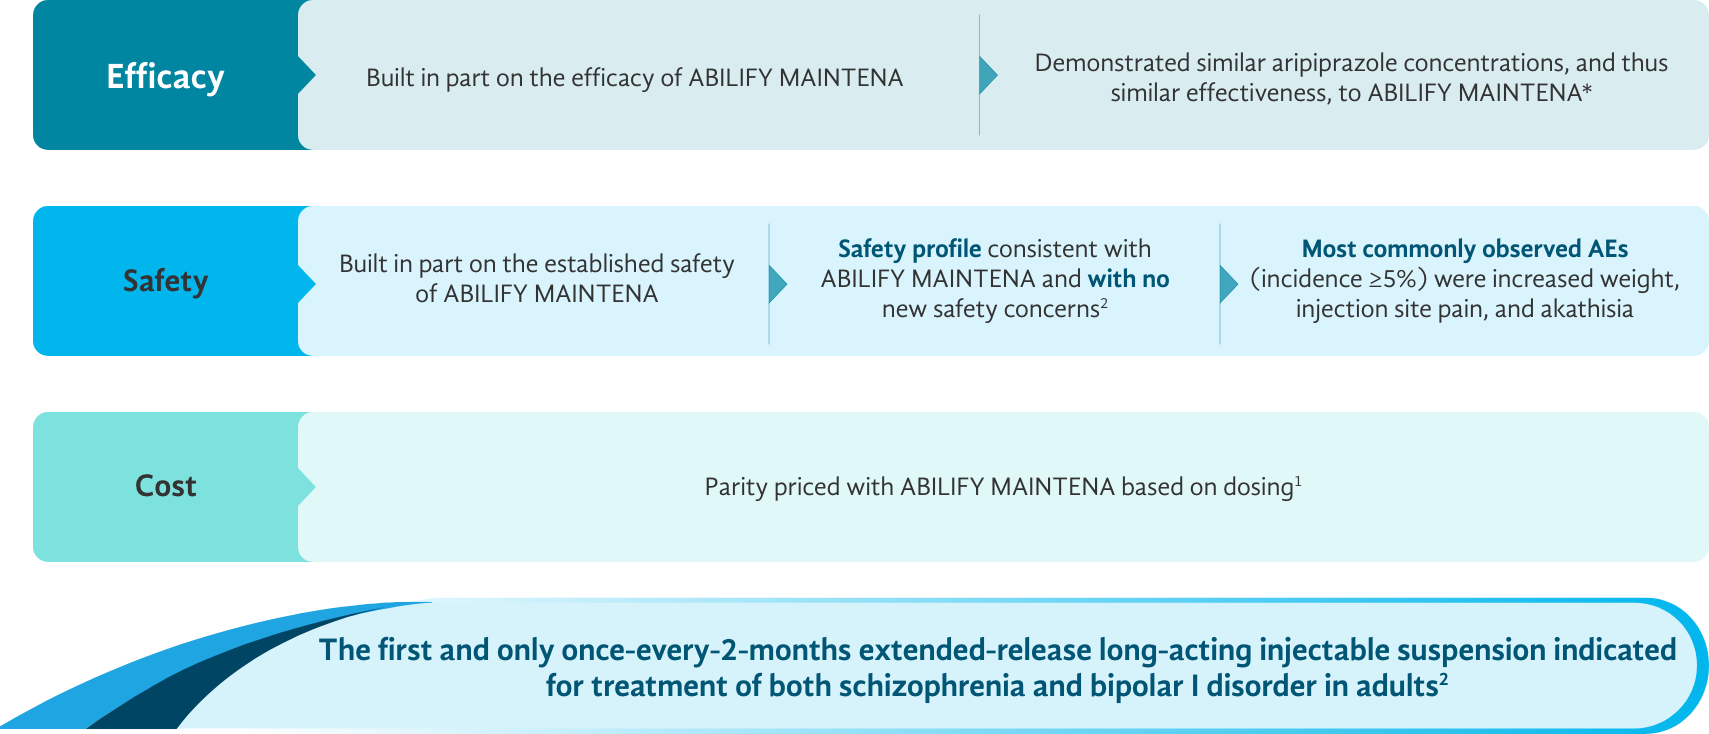
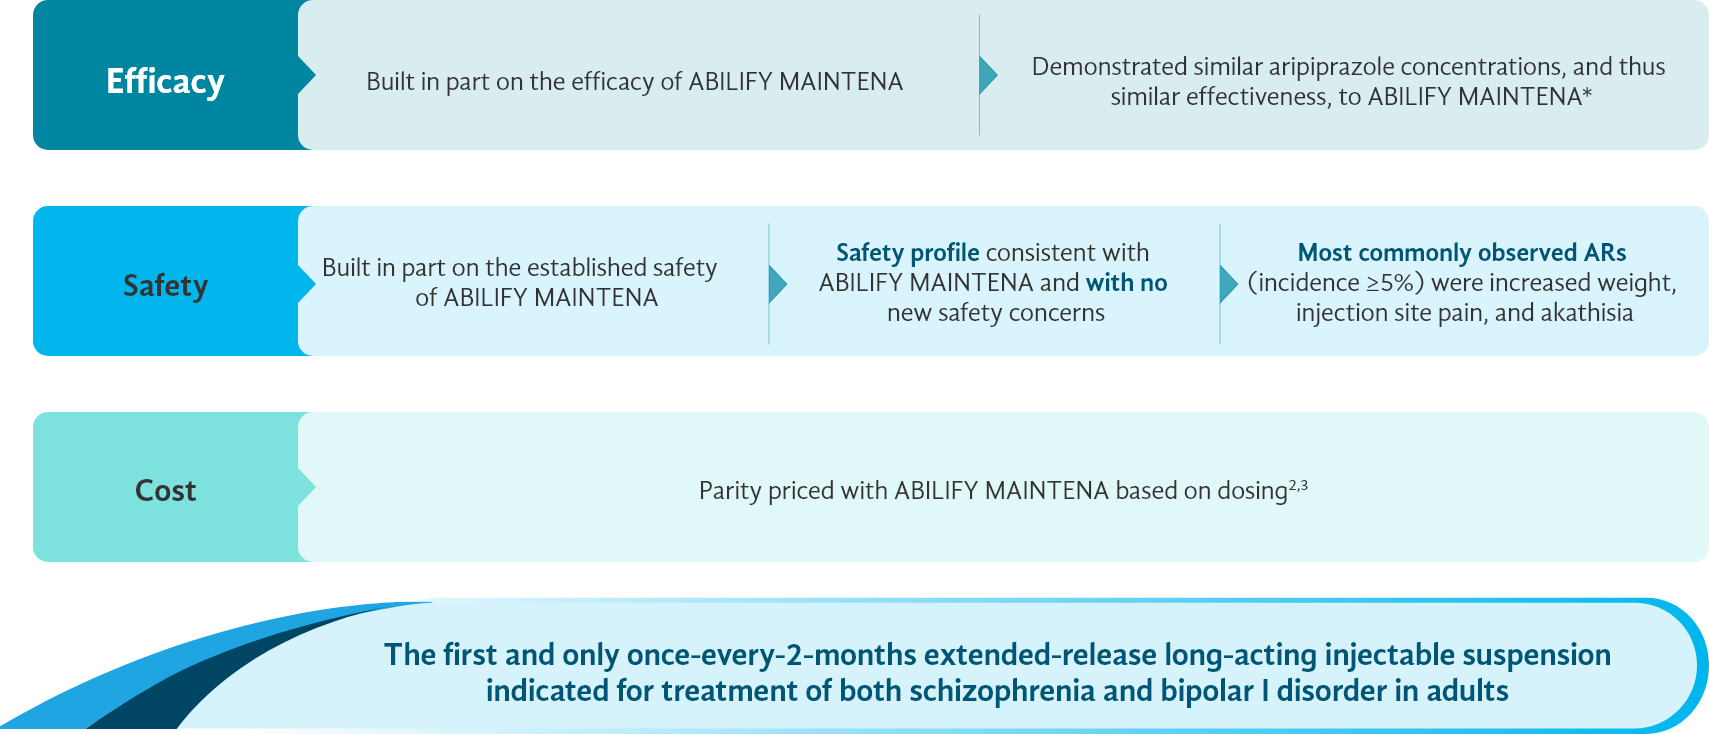
DF-33623 | Update - A.1.0_Executive_summary

diff --git a/projects/veeva-clm/src/Components/05-pages/A.1.0_Executive_summary/A.1.0_Executive_summary.stories.jsx b/projects/veeva-clm/src/Components/05-pages/A.1.0_Executive_summary/A.1.0_Executive_summary.stories.jsx
@@ -2,7 +2,6 @@ import React from 'react';
 import { AppStorybook } from '@pages/AppStorybook';
 import { Header } from '@atoms/Content/Header/Header';
 import { Footer } from '@/Components/03-organisms/Footer/Footer';
-import { Link } from '@/Components/03-organisms/Routing/Link/Link';
 import AsimtufiiLogo from '@/assets/asimtufii-logo.png';
 import PageImage from './img/page-image.png';
 import './style.scss';
@@ -19,11 +18,11 @@ export default {
 const baseClass = 'page--A_1_0_Executive_summary';
 const content = () => (
   <>
-    <Header custom={`${baseClass}-header-1 mb-20`}>
+    <Header custom={`${baseClass}-header-1 mb-15 mt-5`}>
       ABILIFY ASIMTUFII<sup>®</sup> (aripiprazole) offers comparable safety and
-      tolerability to ABILIFY MAINTENA<sup>®</sup> (aripiprazole) with
-      2&nbsp;months of sustained efficacy in patients with schizophrenia or
-      bipolar I disorder (BP-I)<sup>1,2</sup>
+      tolerability to ABILIFY MAINTENA<sup>®</sup> (aripiprazole) with <br />2
+      months of sustained efficacy in patients with schizophrenia or bipolar I
+      disorder (BP-I)<sup>1</sup>
     </Header>
     <img className={`${baseClass}-img-1`} src={PageImage} alt='' width='852' />
     <Footer
@@ -32,7 +31,7 @@ const content = () => (
         custom: 'mb-3',
         data: [
           {
-            supLeft: '*',
+            supLeftBig: '*',
             innerText: (
               <span>
                 In a pharmacokinetic bridging study, the mean plasma
@@ -40,20 +39,23 @@ const content = () => (
                 and efficacious concentration
                 <br /> between 200 ng/mL and 320 ng/mL during the 56-day dosing
                 interval.<sup>6</sup>
-                <br /> AE=adverse event; FDA=US Food and Drug Administration.
+                <br /> AR=adverse reaction; FDA=US Food and Drug Administration.
               </span>
             ),
           },
         ],
       }}
       references={{
-        custom: 'mb-35',
+        custom: 'mb-38 pr-20',
         data: [
+          {
+            text: 'Harlin M, et al. CNS Drugs. 2023;10.1007/s40263-023-00996-8',
+          },
           {
             text: 'Merative Micromedex. Accessed March 22, 2023. https://www.micromedexsolutions.com/',
           },
           {
-            text: 'Harlin M, et al. CNS Drugs. 2023;10.1007/s40263-023-00996-8.',
+            text: 'Data on file. Otsuka.',
           },
         ],
       }}
@@ -65,9 +67,9 @@ const content = () => (
             text: (
               <span>
                 Please see{' '}
-                <Link to='A.7.0_ISI' custom='blue-500'>
+                <a href='/' className='blue-500'>
                   IMPORTANT SAFETY INFORMATION
-                </Link>{' '}
+                </a>{' '}
                 in this presentation.
               </span>
             ),

diff --git a/projects/veeva-clm/src/Components/05-pages/A.1.0_Executive_summary/style.scss b/projects/veeva-clm/src/Components/05-pages/A.1.0_Executive_summary/style.scss
@@ -3,7 +3,4 @@
   &-img-1 {
     margin-left: -15px;
   }
-  .footer .references > span + span {
-    display: block;
-  }
 }
